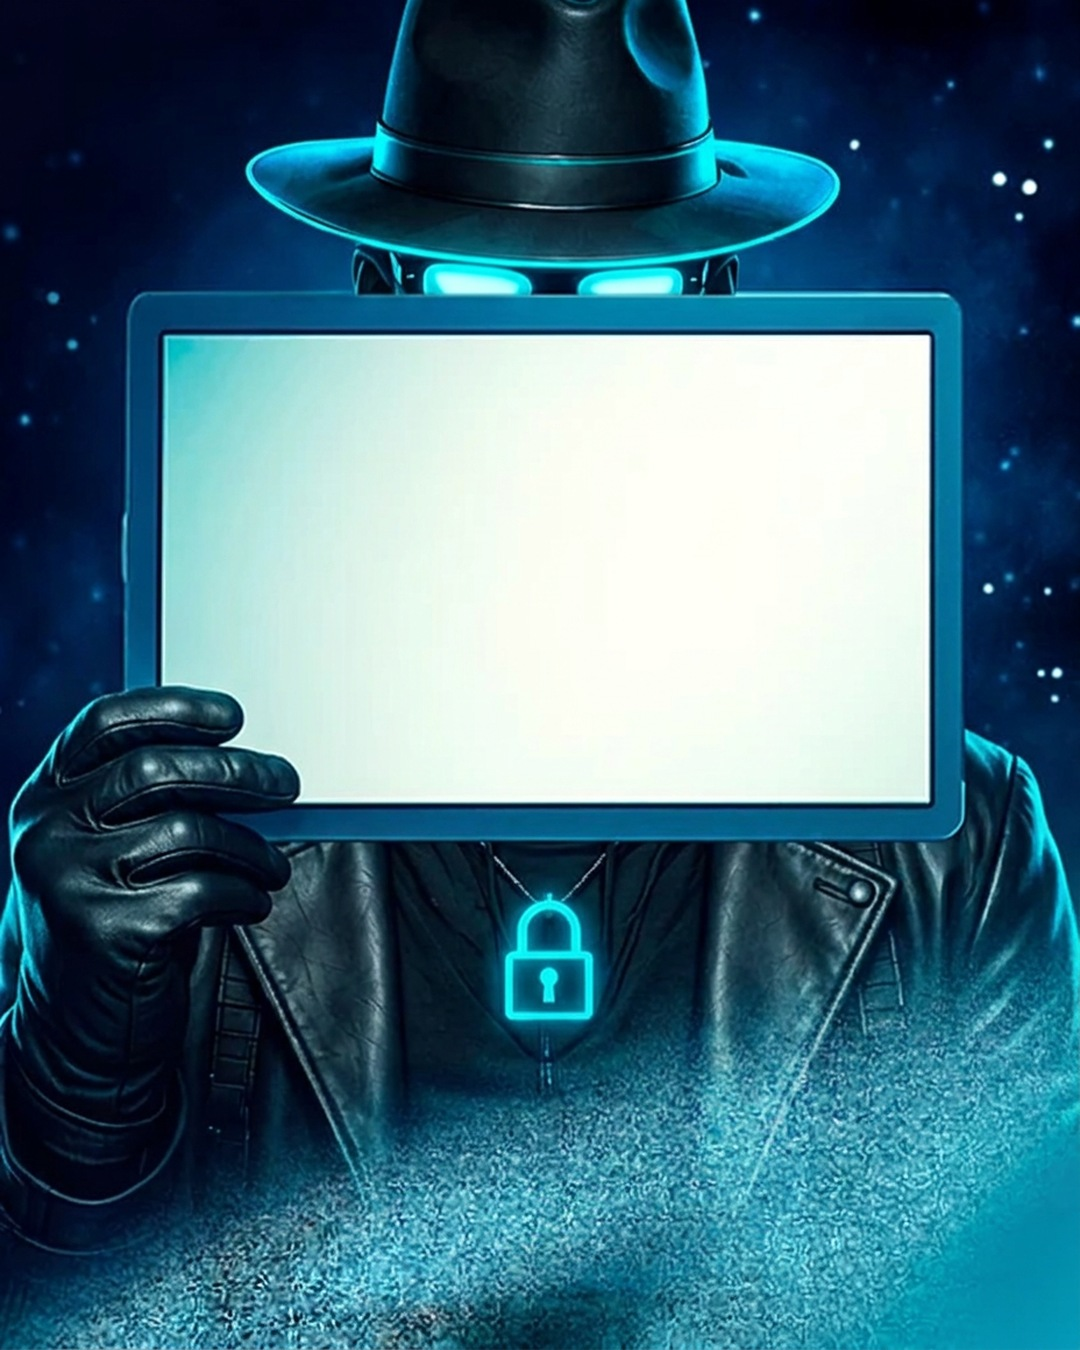
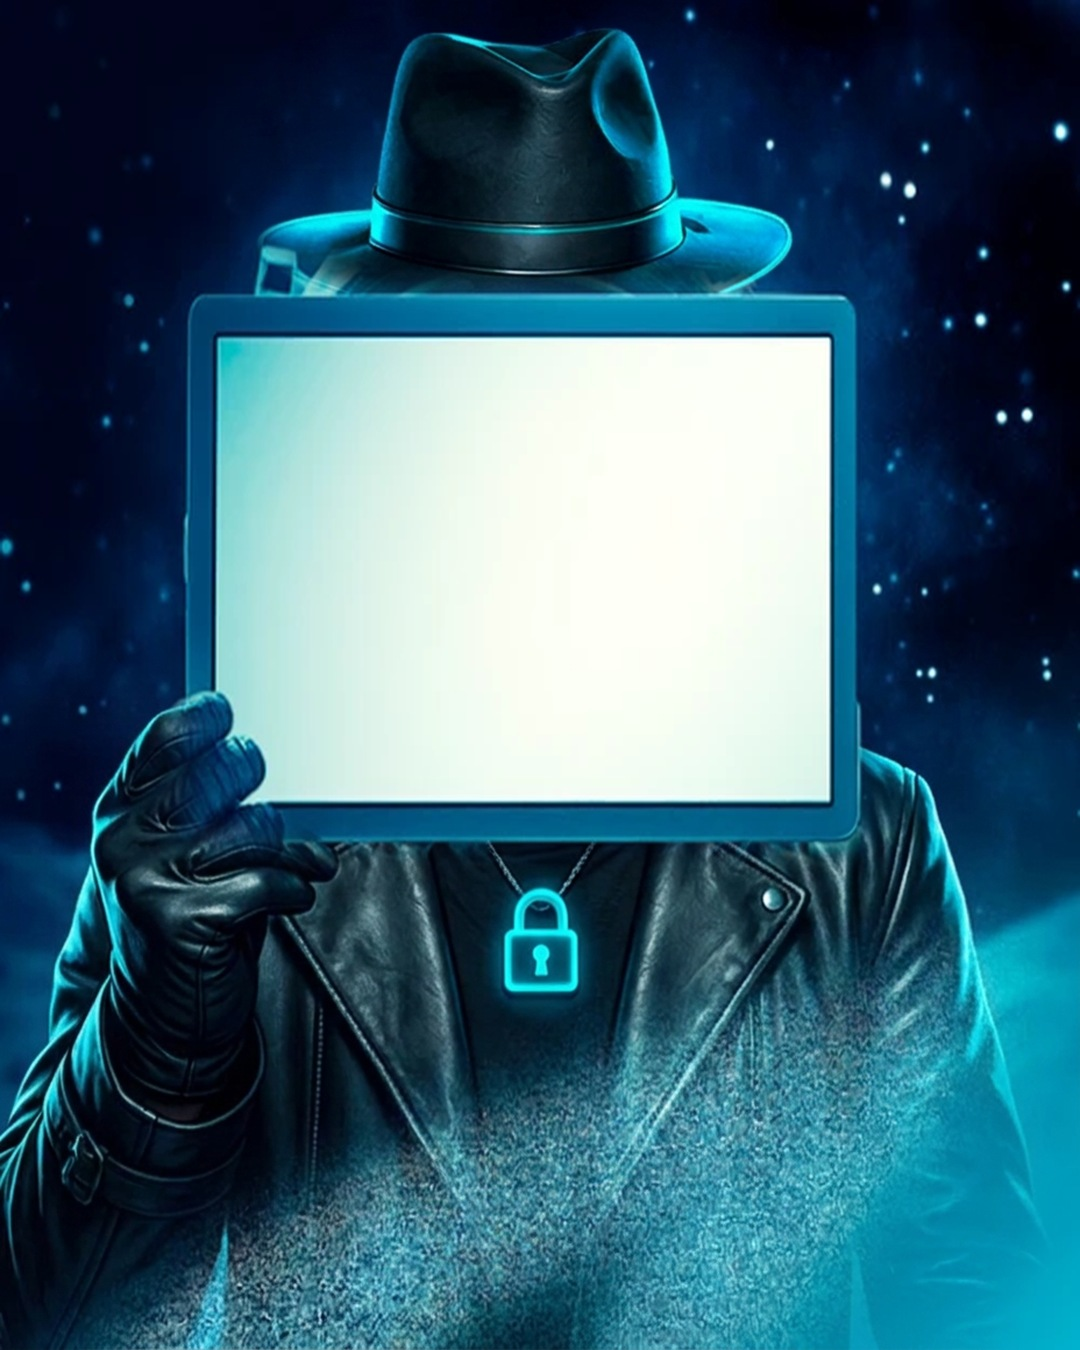
Template 13: volta o texto, o fim e o CTA da versão anterior; fundo novo do dono sem o círculo de cima; mascote da 007 no lugar do astronauta sem mexer no resto do fundo
Claude-Session: https://claude.ai/code/session_017mkQW885k4H9tbGerhJzi7

diff --git a/public/arte-modelos.js b/public/arte-modelos.js
@@ -778,6 +778,7 @@ COMPOR_EXTRA['colagem-fim'] = (d, ctx) => {
 // Arte original: faixa 2000×500 com 4 páginas quadradas de 500. Cada página do fundo panorâmico (banco/tpl-espaco/referencia) vira 1080×1080
 // e é esticada na altura para 1080×1350, sem cortar nada. Medidas tiradas da arte em 1000×1000 por página: x·1,08 e y·1,35.
 const EP = { ciano: '#12c9de', navy: '#04222b', claro: '#e4f7fa' }, epX = v => v * 1.08, epY = v => v * 1.35;
+const epLogo = (s, e, ctx, x, y) => { if (ctx.logo) s.items.push({ asset: ctx.logo, x: e.X(x), y: e.Y(y), size: 150 }); };
 const epBase = n => ({ bg: { asset: 'tpl-espaco-fundo-' + n, color: '#020b14' }, paper: '#020b14', shade: 0, pager: false, fx: { grain: 0, vignette: 0 }, texts: [], items: [], shapes: [] });
 COMPOR_EXTRA['espaco-capa'] = (d, ctx) => {
   usaFontes(ctx, 'bebas', 'poppins');
@@ -806,41 +807,37 @@ COMPOR_EXTRA['espaco-capa'] = (d, ctx) => {
 COMPOR_EXTRA['espaco-par'] = (d, ctx) => {
   usaFontes(ctx, 'bebas', 'poppins');
   const i = Math.max(1, ctx.i || 1), j = (i - 1) % 2, ult = i === (ctx.total || 3) - 2, e = erEsc(ctx, ctx.W, ctx.H), s = epBase(2 + j);
-  if (ult) s.items.push({ asset: 'tpl-espaco-computador', x: e.X(epX(1040)), y: e.Y(epY(560)), size: 1190, cruza: true });
-  else if (j === 0) s.items.push({ asset: 'tpl-espaco-caneta', x: e.X(epX(970)), y: e.Y(epY(455)), size: 1210, cruza: true });
-  const tag = String(d.kicker || 'Segredos do MKT').toUpperCase(), gf = fX(500, .3), gw = Math.max(epX(290), largura(tag, gf, 17) * 1.3 + 90), gx = epX(128) + gw / 2, gy = epY(254);
-  s.shapes.push({ kind: 'pill', x: e.X(gx), y: e.Y(gy), w: e.X(gw), h: e.Y(46), color: 'transparent', stroke: '#ffffff', stroke_w: 2 / 1080 });
-  s.texts.push({ role: 'label', value: tag, x: e.X(gx - 18), y: e.Y(gy), align: 'center', size: e.P(17), font: gf.k, weight: gf.w, ls: .3, lh: 1, color: '#ffffff', nowrap: true, shadow: false });
-  s.shapes.push({ kind: 'icon', icon: 'arrow-down', icon_color: '#04222b', x: e.X(epX(128) + gw - 30), y: e.Y(gy), w: e.X(18), h: e.Y(18) }); s.shapes.splice(s.shapes.length - 1, 0, { kind: 'circle', x: e.X(epX(128) + gw - 30), y: e.Y(gy), w: e.X(28), h: e.Y(28), color: '#ffffff' });
-  const tf = fT(CONDENSADA[FK.t] ? 400 : 700, 0), bf = fX(400, 0), its = erItens(d).slice(0, 2);
-  const COL = [{ a: 97, x: 120, w: 345 }, { a: 540, x: 565, w: ult ? 300 : 330 }];
+  const dir = ult ? 'pc' : j === 0 ? 'caneta' : '', x0 = j === 1 ? 230 : 110, xr = dir === 'pc' ? 770 : dir === 'caneta' ? 880 : 970;
+  if (dir === 'caneta') s.items.push({ asset: 'tpl-espaco-caneta', x: e.X(epX(970)), y: e.Y(epY(455)), size: 1210, cruza: true });   // tamanho e lugar da arte do dono
+  if (dir === 'pc') s.items.push({ asset: 'tpl-espaco-computador', x: e.X(epX(1040)), y: e.Y(epY(560)), size: 1190, cruza: true });
+  const tf = fT(CONDENSADA[FK.t] ? 400 : 700, 0), bf = fX(400, 0), its = erItens(d).slice(0, 2), B = [];
   its.forEach((it, q) => {
-    const c = COL[q], tx = epX(c.x), tw = epX(c.w), y = epY(330);
-    const n = String(erNum(d, ctx, q)).padStart(2, '0') + '.';
-    const tl = fgAst(erQuebra('*' + n + '* ' + String(it.t).toUpperCase().replace(/\*/g, ''), tf, 64, tw)).slice(0, 5);
-    const bl = it.d ? fgAst(erQuebra(it.d, bf, 25, tw)).slice(0, 7) : [];
-    s.shapes.push({ kind: 'ring', x: e.X(epX(c.a)), y: e.Y(y + 36), w: e.X(36), h: e.Y(36), color: '#ffffff', stroke_w: 2.5 / 1080 }, { kind: 'icon', icon: 'arrow-right', icon_color: '#ffffff', x: e.X(epX(c.a)), y: e.Y(y + 36), w: e.X(22), h: e.Y(22) });
-    tl.forEach((l, k) => s.texts.push({ role: 'title', value: l, x: e.X(tx), y: e.Y(y + 36 + k * 66), align: 'left', size: e.P(64), font: tf.k, weight: tf.w, lh: 1, color: EP.ciano, hl: '#ffffff', nowrap: true, shadow: false }));
-    bl.forEach((l, k) => s.texts.push({ role: 'body', value: l, x: e.X(tx), y: e.Y(y + tl.length * 66 + 30 + k * 38), align: 'left', size: e.P(25), font: bf.k, weight: bf.w, lh: 1, color: EP.claro, hl: '#ffffff', hw: 700, nowrap: true, shadow: false }));
+    const n = String(erNum(d, ctx, q)).padStart(2, '0') + '.', tx = x0 + 62, tw = xr - tx;
+    const tl = fgAst(erQuebra('*' + n + '* ' + String(it.t).toUpperCase().replace(/\*/g, ''), tf, 66, tw)).slice(0, 4);
+    const bl = it.d ? fgAst(erQuebra(it.d, bf, 28, tw)).slice(0, 6) : [];
+    B.push({ h: tl.length * 64 + (bl.length ? 18 + bl.length * 38 : 0), gap: q ? 64 : 0, make: y => {
+      s.shapes.push({ kind: 'ring', x: e.X(x0 + 20), y: e.Y(y + 32), w: e.X(38), h: e.Y(38), color: '#ffffff', stroke_w: 2.5 / 1080 }, { kind: 'icon', icon: 'arrow-right', icon_color: '#ffffff', x: e.X(x0 + 20), y: e.Y(y + 32), w: e.X(24), h: e.Y(24) });
+      tl.forEach((l, k) => s.texts.push({ role: 'title', value: l, x: e.X(tx), y: e.Y(y + 33 + k * 64), align: 'left', size: e.P(66), font: tf.k, weight: tf.w, lh: 1, color: EP.ciano, hl: '#ffffff', nowrap: true, shadow: false }));
+      bl.forEach((l, k) => s.texts.push({ role: 'body', value: l, x: e.X(tx), y: e.Y(y + tl.length * 64 + 18 + 19 + k * 38), align: 'left', size: e.P(28), font: bf.k, weight: bf.w, lh: 1, color: EP.claro, hl: '#ffffff', hw: 700, nowrap: true, shadow: false }));
+      return []; } });
   });
+  pilha(B, 680, ctx);
+  epLogo(s, e, ctx, x0 + 75, 1265);
   return s;
 };
 COMPOR_EXTRA['espaco-fim'] = (d, ctx) => {
   usaFontes(ctx, 'bebas', 'poppins');
-  const e = erEsc(ctx, ctx.W, ctx.H), s = epBase(4), cx = epX(497);
-  const tf = fX(800, -.03), tl = erQuebra(d.titulo || 'Gostou do|conteúdo?', tf, 80, 560).slice(0, 3);
-  const af = fX(400, -.01), al = erQuebra(d.texto || d.apoio || 'compartilhe|com os amigos!', af, 34, 560).slice(0, 3);
-  const yt = epY(340) - (tl.length - 2) * 40;
-  tl.forEach((l, i) => s.texts.push({ role: 'title', value: l, x: e.X(cx), y: e.Y(yt - 41 + i * 82), align: 'center', size: e.P(80), font: tf.k, weight: tf.w, ls: -.03, lh: 1, color: '#ffffff', nowrap: true, shadow: false }));
-  const ya = yt + (tl.length - 1) * 82 + 80;
-  al.forEach((l, i) => s.texts.push({ role: 'body', value: l, x: e.X(cx), y: e.Y(ya + i * 46), align: 'center', size: e.P(34), font: af.k, weight: af.w, ls: -.01, lh: 1, color: '#ffffff', nowrap: true, shadow: false }));
-  const yi = ya + (al.length - 1) * 46 + 74;
-  ['heart', 'message-circle', 'send', 'bookmark'].forEach((ic, k) => s.shapes.push({ kind: 'icon', icon: ic, icon_color: EP.ciano, x: e.X(cx + (k - 1.5) * 40), y: e.Y(yi), w: e.X(28), h: e.Y(28) }));
-  const ct = String(d.cta || 'Quero orçamento').toUpperCase(), cf = fX(700, .02), cw = Math.max(epX(245), largura(ct, cf, 21) + 70), yb = yi + 104;
-  s.shapes.push({ kind: 'pill', x: e.X(cx), y: e.Y(yb), w: e.X(cw), h: e.Y(62), color: EP.ciano });
-  s.texts.push({ role: 'title', value: ct, x: e.X(cx), y: e.Y(yb), align: 'center', size: e.P(21), font: cf.k, weight: cf.w, ls: .02, lh: 1, color: EP.navy, nowrap: true, shadow: false });
+  const e = erEsc(ctx, ctx.W, ctx.H), s = epBase(4), cx = 650, B = [];
+  const tf = fX(800, -.03), tl = erQuebra(d.titulo || 'Gostou do|conteúdo?', tf, 84, 680).slice(0, 4);
+  B.push({ h: tl.length * 86, gap: 0, make: y => { tl.forEach((l, i) => s.texts.push({ role: 'title', value: l, x: e.X(cx), y: e.Y(y + 43 + i * 86), align: 'center', size: e.P(84), font: tf.k, weight: tf.w, ls: -.03, lh: 1, color: '#ffffff', nowrap: true, shadow: false })); return []; } });
+  const af = fX(400, -.01), al = erQuebra(d.texto || d.apoio || 'compartilhe|com os amigos!', af, 38, 640).slice(0, 5);
+  B.push({ h: al.length * 46, gap: 20, make: y => { al.forEach((l, i) => s.texts.push({ role: 'body', value: l, x: e.X(cx), y: e.Y(y + 23 + i * 46), align: 'center', size: e.P(38), font: af.k, weight: af.w, ls: -.01, lh: 1, color: '#ffffff', nowrap: true, shadow: false })); return []; } });
+  const ct = String(d.cta || 'Quero orçamento').toUpperCase(), cf = fX(700, .02), cw = Math.max(300, largura(ct, cf, 24) + 90);
+  B.push({ h: 68, gap: 48, make: y => { s.shapes.push({ kind: 'pill', x: e.X(cx), y: e.Y(y + 34), w: e.X(cw), h: e.Y(68), color: EP.ciano }); s.texts.push({ role: 'title', value: ct, x: e.X(cx), y: e.Y(y + 34), align: 'center', size: e.P(24), font: cf.k, weight: cf.w, ls: .02, lh: 1, color: EP.navy, nowrap: true, shadow: false }); return []; } });
+  pilha(B, 600, ctx);
   return s;
 };
+
 
 const COMPOR = {
   'erros-capa'(d, ctx) {
